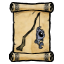
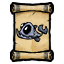
1

diff --git a/data/certificate/data.js b/data/certificate/data.js
@@ -63,7 +63,7 @@
             `,
       },
       {
-        name: "渔夫证书",
+        name: "钓鱼证书",
         image: "certificate_fish.png",
         code: "certificate_fish",
         tech: "制图桌",
@@ -74,6 +74,20 @@
 青蛙池塘，蚊子池塘，绿洲，洞穴池塘，选3种池塘每个池塘钓10条鱼解锁
 
 穿戴后钓鱼秒上钩
+            `,
+      },
+      {
+        name: "渔夫证书",
+        image: "certificate_oceanfish.png",
+        code: "certificate_oceanfish",
+        tech: "制图桌",
+        recipe: "羽毛笔*1+钓鱼证书*1",
+        description: `
+注：装备前要使用羽毛笔签上自己的名字
+
+戴在身上钓到16种海鱼（海鱼共18种，其中有2种是春节期间才会出现的）外加2种龙虾即可解锁
+
+穿戴后能钓上来**足够重**的海鱼，收获海草身上的藤壶而不会引起藤壶的仇恨
             `,
       },
       {
@@ -175,17 +189,15 @@
             `,
       },
       {
-        name: "航海证书",
-        image: "certificate_ocean.png",
-        code: "certificate_ocean_finish",
+        name: "猴王任命书",
+        image: "certificate_monkey.png",
+        code: "certificate_monkey_finish",
         description: `
 注：装备前要使用羽毛笔签上自己的名字
 
 击杀大副有概率掉落
 
-穿戴后划船比大头还快
-
-设定：在永恒大陆大副也得持证抢劫！
+穿戴后划船比大头还快、可持证抢劫掏空食人花
             `,
       },
       {
